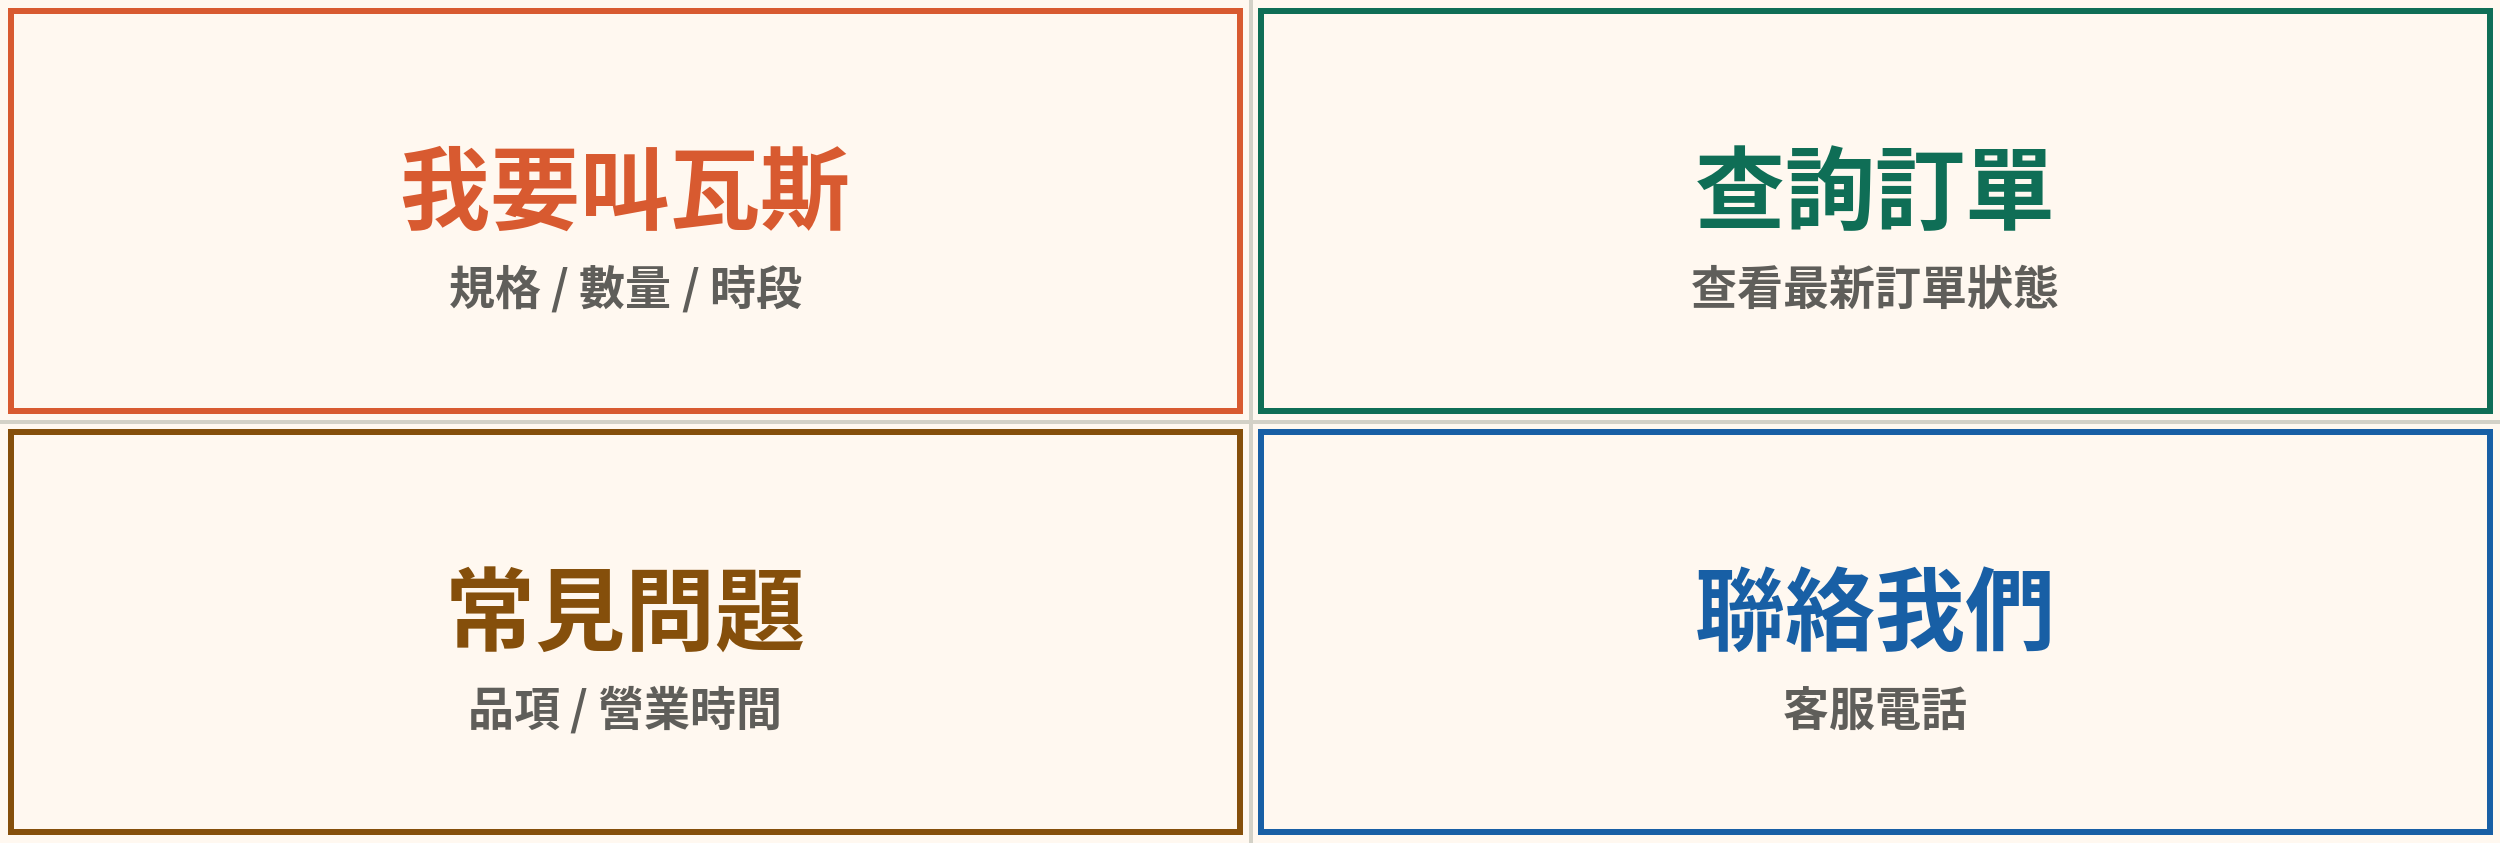
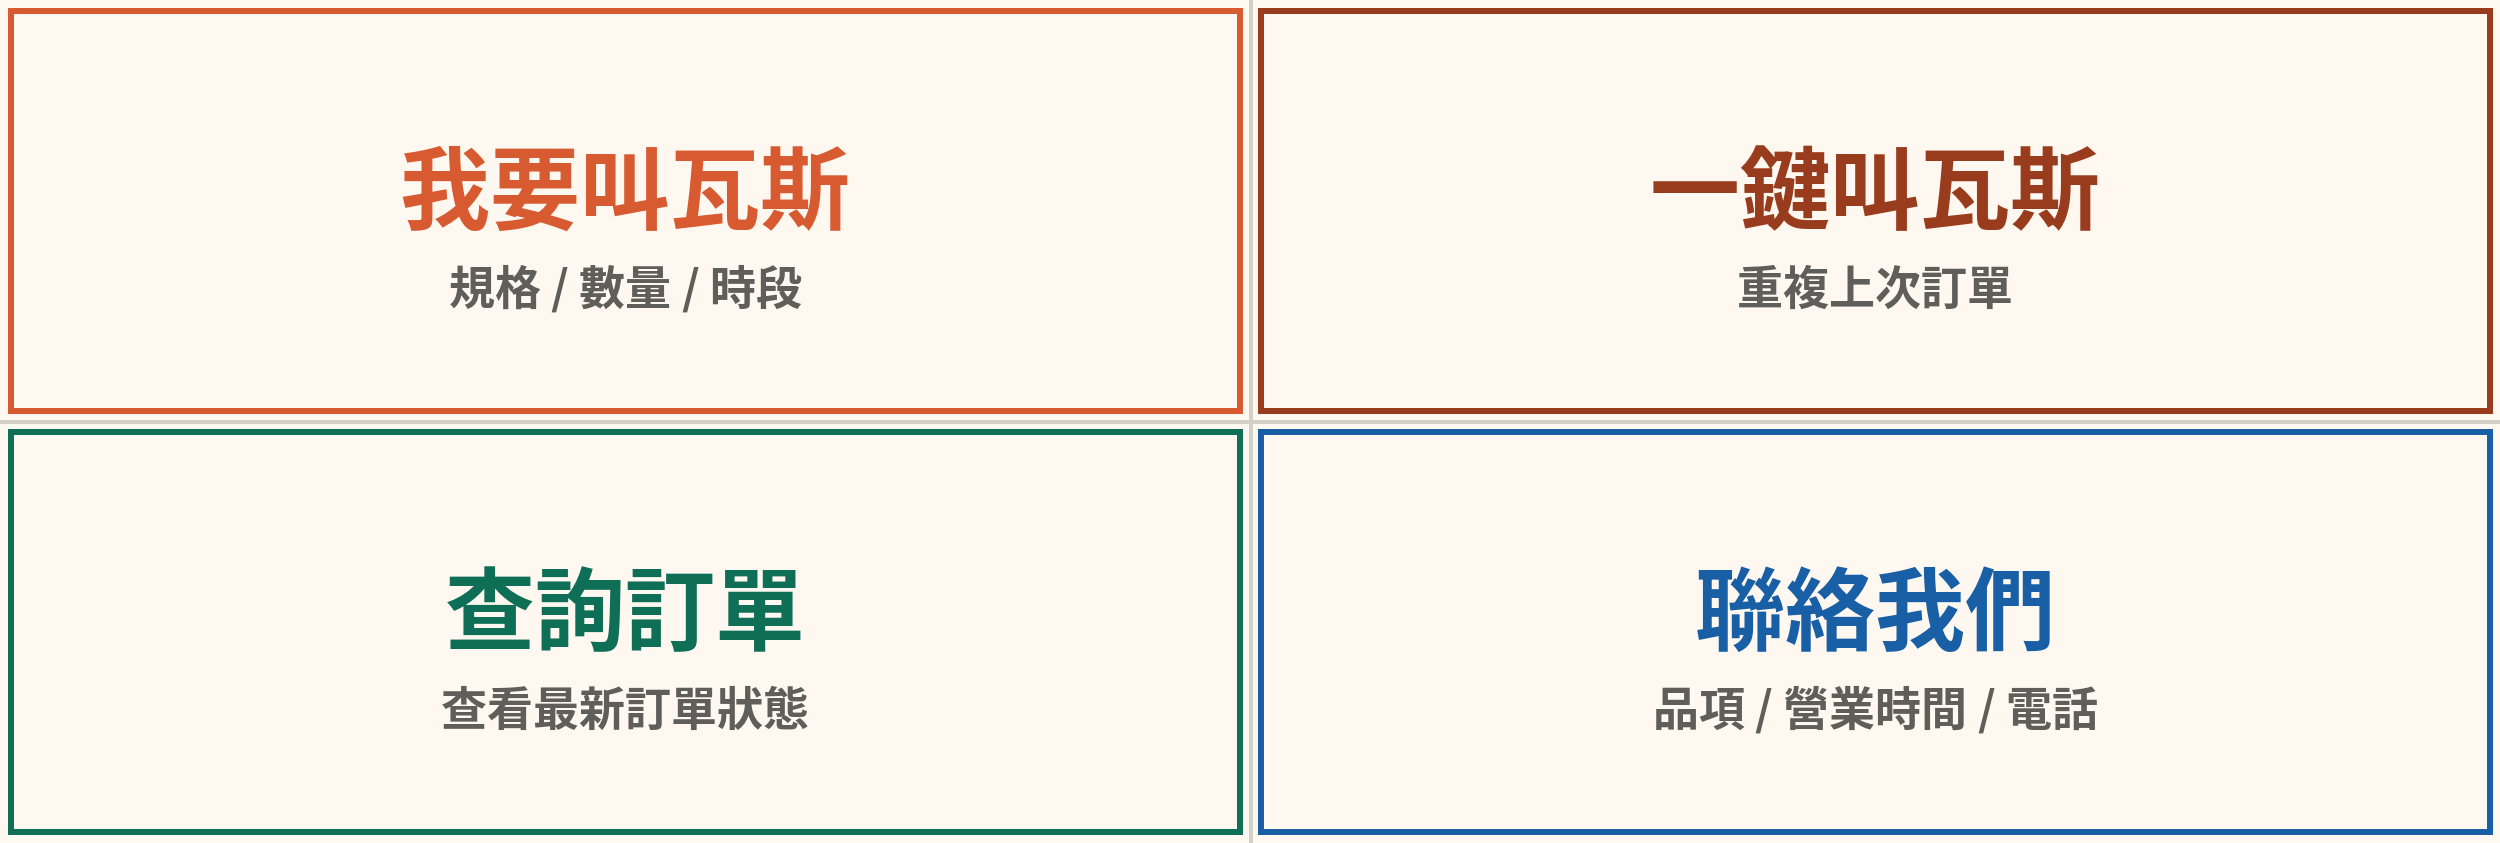
feat: add quick re-order, merge FAQ into contact, update rich menu layout

diff --git a/src/controllers/lineController.ts b/src/controllers/lineController.ts
@@ -34,8 +34,8 @@ function mainMenu() {
       text: '請選擇您需要的服務',
       actions: [
         { type: 'postback', label: '🛒 我要叫瓦斯', data: 'action=order' },
+        { type: 'postback', label: '⚡ 一鍵叫瓦斯', data: 'action=quick_order' },
         { type: 'postback', label: '📋 查詢訂單狀態', data: 'action=status' },
-        { type: 'postback', label: '❓ 常見問題', data: 'action=faq' },
         { type: 'postback', label: '📞 聯絡我們', data: 'action=contact' }
       ]
     }
@@ -320,15 +320,40 @@ export async function handleLineWebhook(req: Request, res: Response) {
         }
       }
 
-      else if (action === 'faq') {
-        await replyMessage(replyToken, [{
-          type: 'text',
-          text: '❓ 常見問題\n\n🔥 瓦斯品項：\n・20kg 桶裝\n・16kg 桶裝\n・10kg 桶裝\n・4kg 桶裝\n\n🕐 營業時間：\n週一至週六 09:00-20:00\n\n📞 客服電話：\n06-2231668\n06-2264569'
-        }])
+      else if (action === 'quick_order') {
+        const [binding] = await db.query(
+          `SELECT customer_id FROM line_users WHERE line_user_id = ?`, [userId]
+        ) as any
+        if (!binding[0]) {
+          userState[userId] = { step: 'waiting_phone' }
+          await replyMessage(replyToken, [{ type: 'text', text: '請先輸入您的電話號碼進行綁定：' }])
+        } else {
+          const customerId = binding[0].customer_id
+          const [lastOrders] = await db.query(
+            `SELECT oi.gas_type, oi.quantity
+             FROM orders o
+             LEFT JOIN order_items oi ON oi.order_id = o.id
+             WHERE o.customer_id = ? AND o.status != 'CANCELLED'
+             ORDER BY o.created_at DESC LIMIT 1`,
+            [customerId]
+          ) as any
+          if (lastOrders.length === 0 || !lastOrders[0].gas_type) {
+            await replyMessage(replyToken, [
+              { type: 'text', text: '您還沒有歷史訂單可以複製，請改用「我要叫瓦斯」下單：' },
+              mainMenu()
+            ])
+          } else {
+            const { gas_type, quantity } = lastOrders[0]
+            await createLineOrder(userId, replyToken, gas_type, quantity, '盡快配送（一鍵再訂）')
+          }
+        }
       }
 
       else if (action === 'contact') {
-        await replyMessage(replyToken, [{ type: 'text', text: '📞 請直接撥打電話聯絡我們，感謝！' }])
+        await replyMessage(replyToken, [{
+          type: 'text',
+          text: '🔥 瓦斯品項：\n・20kg 桶裝\n・16kg 桶裝\n・10kg 桶裝\n・4kg 桶裝\n\n🕐 營業時間：\n週一至週六 09:00-20:00\n\n📞 客服電話：\n06-2231668\n06-2264569'
+        }])
       }
     }
 

diff --git a/src/scripts/setupRichMenu.ts b/src/scripts/setupRichMenu.ts
@@ -38,11 +38,11 @@ async function main() {
       },
       {
         bounds: { x: 1250, y: 0, width: 1250, height: 421 },
-        action: { type: 'postback', data: 'action=status' }
+        action: { type: 'postback', data: 'action=quick_order' }
       },
       {
         bounds: { x: 0, y: 421, width: 1250, height: 422 },
-        action: { type: 'postback', data: 'action=faq' }
+        action: { type: 'postback', data: 'action=status' }
       },
       {
         bounds: { x: 1250, y: 421, width: 1250, height: 422 },